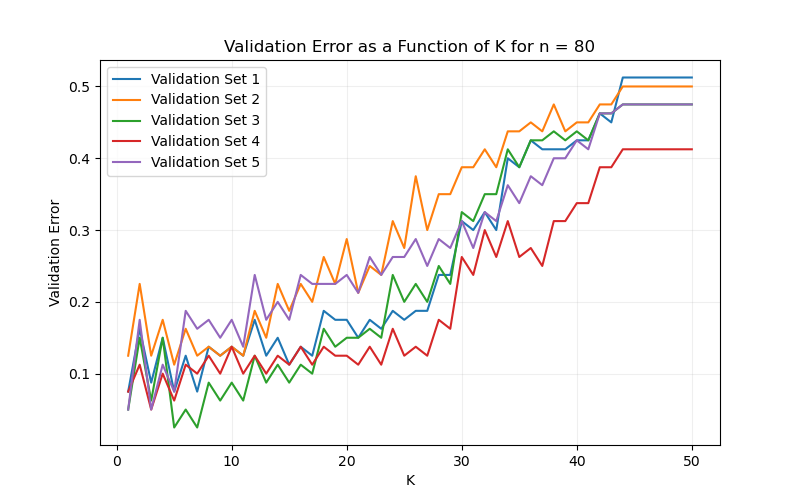
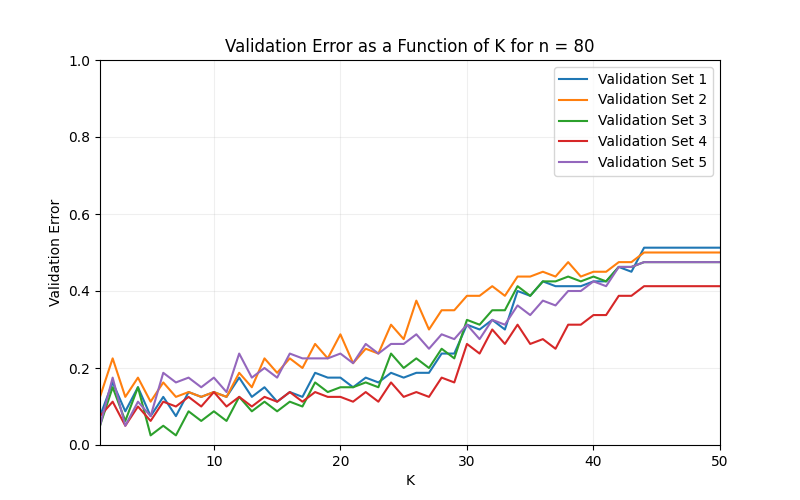
...

diff --git a/Home Assignment 1/task_2.py b/Home Assignment 1/task_2.py
@@ -2,14 +2,14 @@ import numpy as np
 import matplotlib.pyplot as plt
 
 def knn(training_points, training_labels, test_point, test_label):
-    distances = np.sum((training_points - test_point)**2, axis=1)
+    distances = np.diagonal(np.dot(training_points - test_point, (training_points - test_point).T))
     sorted_indices = np.argsort(distances)
     sorted_labels = training_labels[sorted_indices]
     cumulative_errors = np.sign(np.cumsum(sorted_labels)) != np.sign(test_label)
     return cumulative_errors
 
 data_matrix = np.loadtxt("MNIST-5-6-Subset/MNIST-5-6-Subset-Heavy-Corruption.txt").reshape(1877, 784)
-labels = np.loadtxt("MNIST-5-6-Subset/MNIST-5-6-Subset-Labels.txt")
+labels = np.loadtxt("MNIST-5-6-Subset/MNIST-5-6-Subset-Labels.txt") # Manually insert corrupted files
 labels = np.where(labels == 5, -1, 1)
 
 # Using the first 50 training points and labels
@@ -61,8 +61,9 @@ for i, validation_error_curve in enumerate(validation_errors, start=1):
 
 plt.xlabel("K")
 plt.ylabel("Validation Error")
-plt.title("Validation Error as a Function of K for n = 80 (Heavy Corruption)")
+plt.title("Validation Error as a Function of K for n = 80 (Heavily Corrupted)")
 plt.grid(alpha=0.2)
 plt.legend()
+plt.ylim(0, 1)
+plt.xlim(1, 50)
 plt.show()
-

diff --git a/Home Assignment 1/task_1.py b/Home Assignment 1/task_1.py
@@ -2,7 +2,7 @@ import numpy as np
 import matplotlib.pyplot as plt
 
 def knn(training_points, training_labels, test_point, test_label):
-    distances = np.sum((training_points - test_point)**2, axis=1)
+    distances = np.diag(np.dot(training_points - test_point, (training_points - test_point).T))
     sorted_indices = np.argsort(distances)
     sorted_labels = training_labels[sorted_indices]
     cumulative_errors = np.sign(np.cumsum(sorted_labels)) != np.sign(test_label)
@@ -15,7 +15,6 @@ labels = np.where(labels == 5, -1, 1)
 # Using the first 50 training points and labels
 training_points = data_matrix[:50]
 training_labels = labels[:50]
-
 
 m = 50
 n_values = [10, 20, 40, 80]
@@ -69,8 +68,9 @@ for i, n in enumerate(n_values):
     plt.title(f"Validation Error as a Function of K for n = {n}")
     plt.grid(alpha=0.2)
     plt.legend()
+    plt.ylim(0, 1)
+    plt.xlim(1, 50)
     plt.show()
-
 
 # Calculate the variance of validation errors for each K value and each n value
 variance_per_n = []
@@ -92,4 +92,5 @@ plt.ylabel("Variance of Validation Errors")
 plt.title("Variance of Validation Errors vs. K for Different n")
 plt.grid(alpha=0.2)
 plt.legend()
+plt.xlim(1, 50)
 plt.show()
